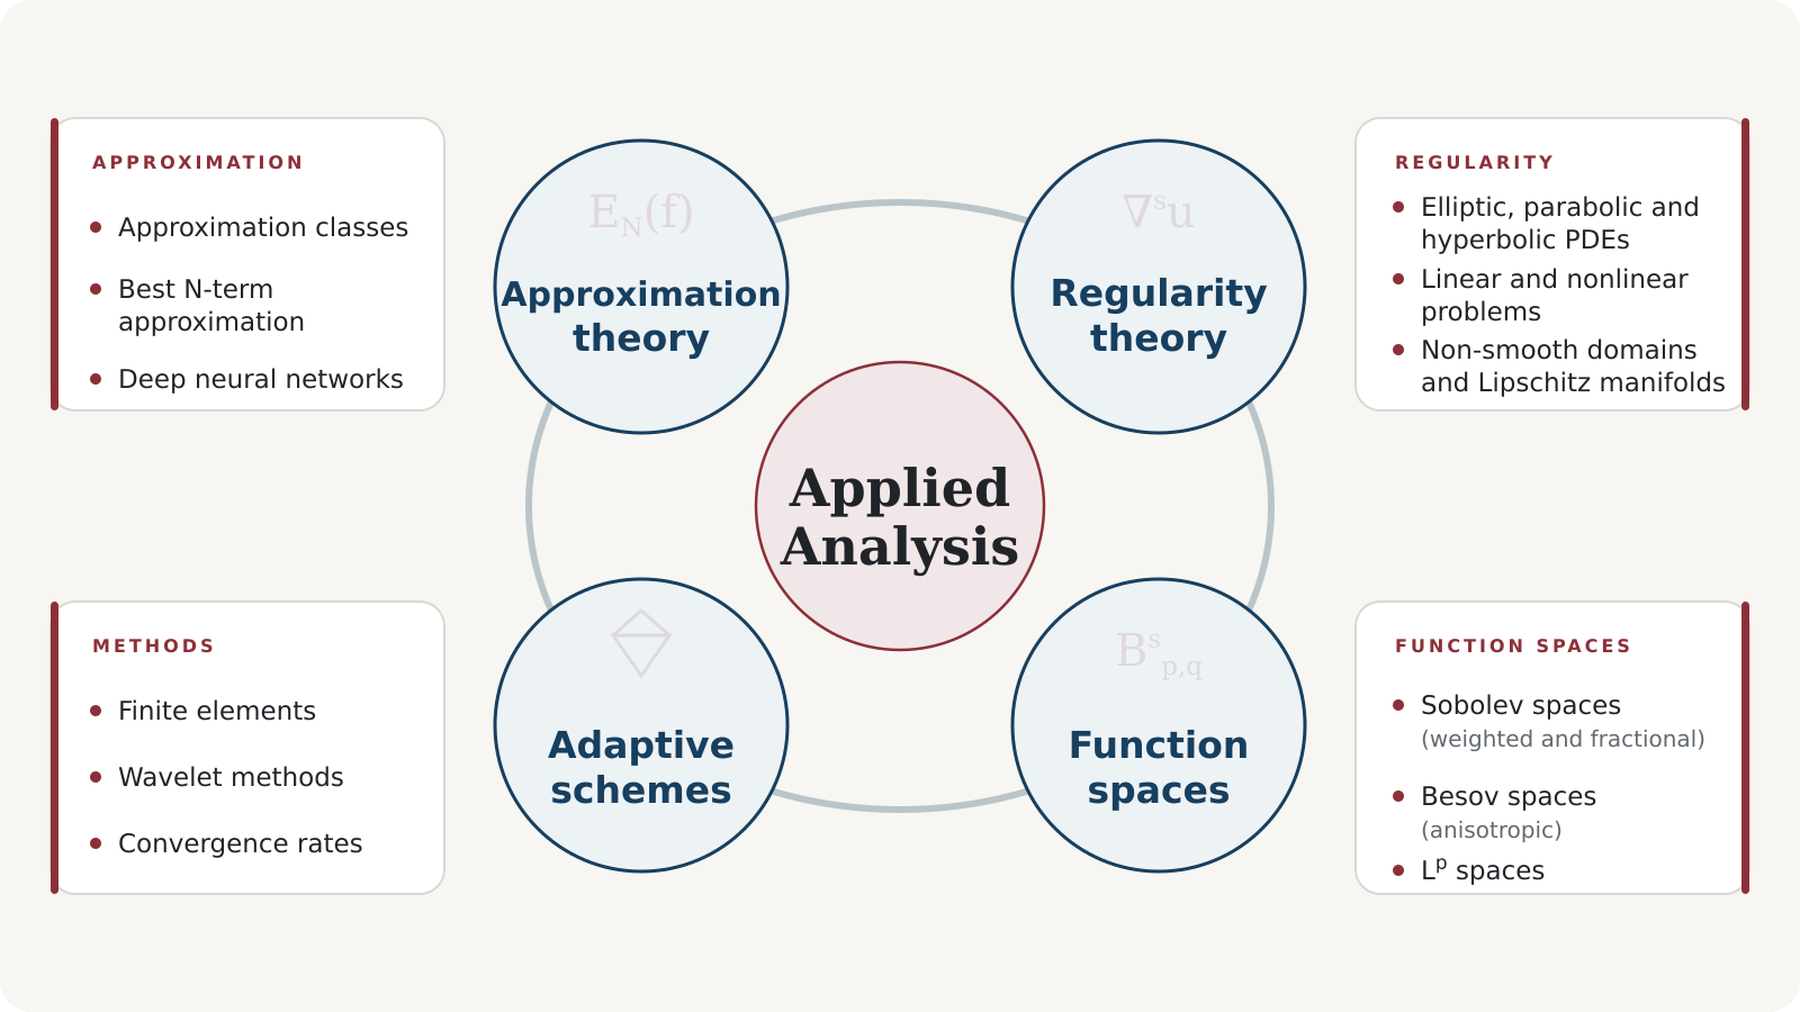
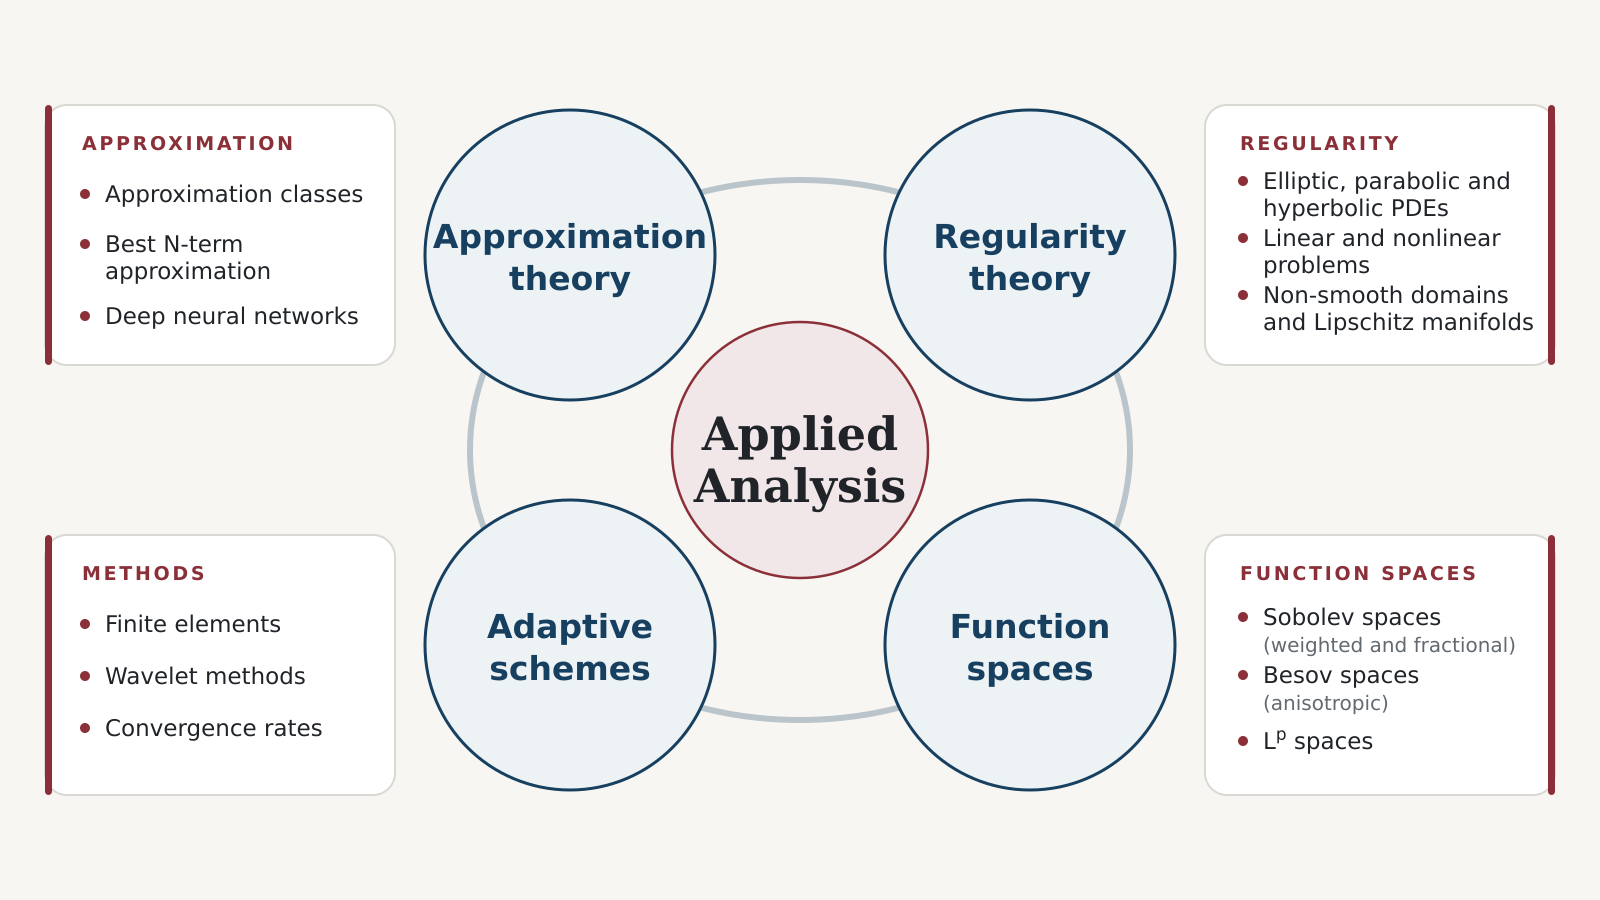
homepage - better version for smartphones

diff --git a/assets/styles.css b/assets/styles.css
@@ -583,7 +583,9 @@ figcaption { margin-top: 8px; color: var(--muted); font-size: .86rem; }
 /* The research diagram stays legible on phones by scrolling sideways
    instead of shrinking below a readable size. */
 .scroll-x { overflow-x: auto; }
-.scroll-x img, .scroll-x svg { min-width: 620px; }
+.scroll-x img, .scroll-x svg { min-width: 700px; }
+/* the hint only makes sense where the diagram really overflows */
+.scroll-hint { display: none; }
 
 /* ---------- footer ---------- */
 
@@ -617,15 +619,33 @@ figcaption { margin-top: 8px; color: var(--muted); font-size: .86rem; }
 @media (max-width: 620px) {
   body { font-size: 16px; }
   .container { width: min(calc(100% - 32px), var(--content)); }
+  /* On phones the hero stops behaving like a wide banner: the portrait sits
+     at the top in its own fixed area, the text below it on the dark ground.
+     aspect-ratio and max-height from the desktop rule must both be undone,
+     otherwise the hero collapses to a 140 px strip and clips its content. */
   .hero {
+    aspect-ratio: auto;
     min-height: 0;
-    align-items: end;
+    max-height: none;
+    display: block;
+    /* exactly the colour the portrait gradient ends in, so there is no seam */
+    background: rgb(19,21,24);
+  }
+  .hero::before {
+    content: "";
+    display: block;
+    aspect-ratio: 0.82;
     background-image:
-      linear-gradient(0deg, rgba(19,21,24,.97) 0%, rgba(19,21,24,.90) 40%, rgba(19,21,24,.28) 68%, rgba(19,21,24,.02) 100%),
+      linear-gradient(0deg, rgba(19,21,24,1) 0%, rgba(19,21,24,.86) 14%, rgba(19,21,24,.12) 42%, rgba(19,21,24,0) 70%),
       url("hero-portrait-narrow.jpg");
+    background-size: cover;
     background-position: 50% top;
   }
-  .hero-content { width: 100%; padding: 300px 0 42px; }
+  .hero-content { width: 100%; padding: 0 0 40px; margin-top: -54px; }
+  .hero h1 { font-size: clamp(2rem, 9vw, 2.6rem); }
+  .hero .lead { font-size: 1rem; }
+  .button-row { margin-top: 22px; }
+  .button-row .button { flex: 1 1 auto; justify-content: center; }
   .hero .lead { max-width: none; }
   .section { padding-block: 48px; }
   .card-grid { grid-template-columns: 1fr; }
@@ -642,6 +662,7 @@ figcaption { margin-top: 8px; color: var(--muted); font-size: .86rem; }
   .callout { padding: 22px; }
   .highlight-block { padding: 20px 18px 22px; }
   .photo-band-img { aspect-ratio: 1.2; background-image: url("beach-narrow.jpg"); }
+  .scroll-hint { display: block; margin-top: 4px; font-style: italic; }
   .footer-inner { display: block; }
   .footer-links { margin-top: 16px; }
 }

diff --git a/research.html b/research.html
@@ -69,10 +69,11 @@
     <div class="container">
       <figure class="research-figure top">
         <div class="scroll-x">
-          <img src="assets/research-overview.png" alt="Four interlinked research areas around the centre 'Applied Analysis': approximation theory, regularity theory, adaptive schemes and function spaces, each with its main keywords." width="1800" height="1012">
+          <img src="assets/research-overview.png" alt="Four interlinked research areas around the centre 'Applied Analysis': approximation theory, regularity theory, adaptive schemes and function spaces, with keyword panels for approximation, regularity, methods and function spaces." width="1600" height="900">
         </div>
         <figcaption>Approximation theory, regularity theory, adaptive schemes and function spaces —
-          the four interacting pillars of my work in applied analysis.</figcaption>
+          the four interacting pillars of my work in applied analysis.
+          <span class="scroll-hint">Swipe sideways to see the whole diagram.</span></figcaption>
       </figure>
     </div>
   </section>
